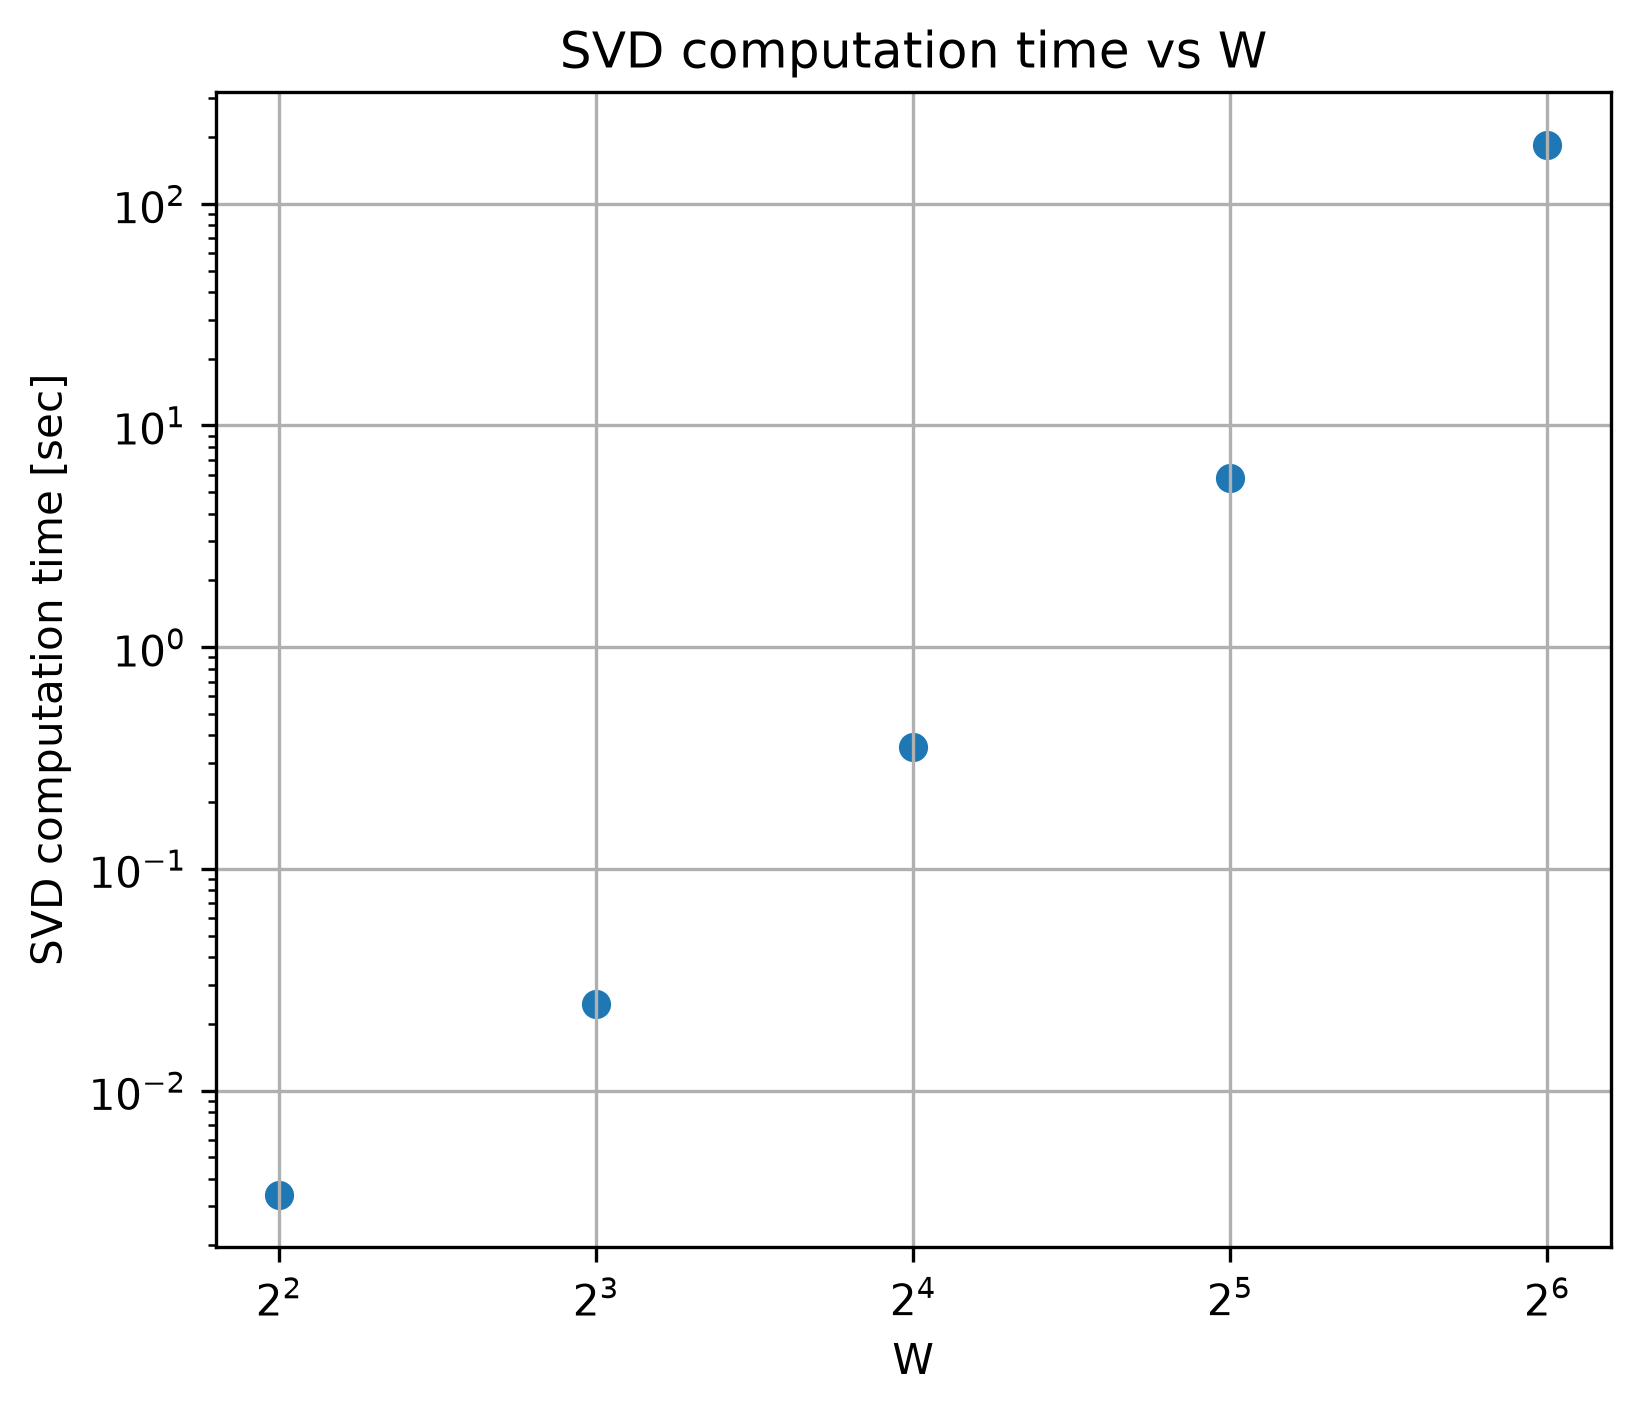
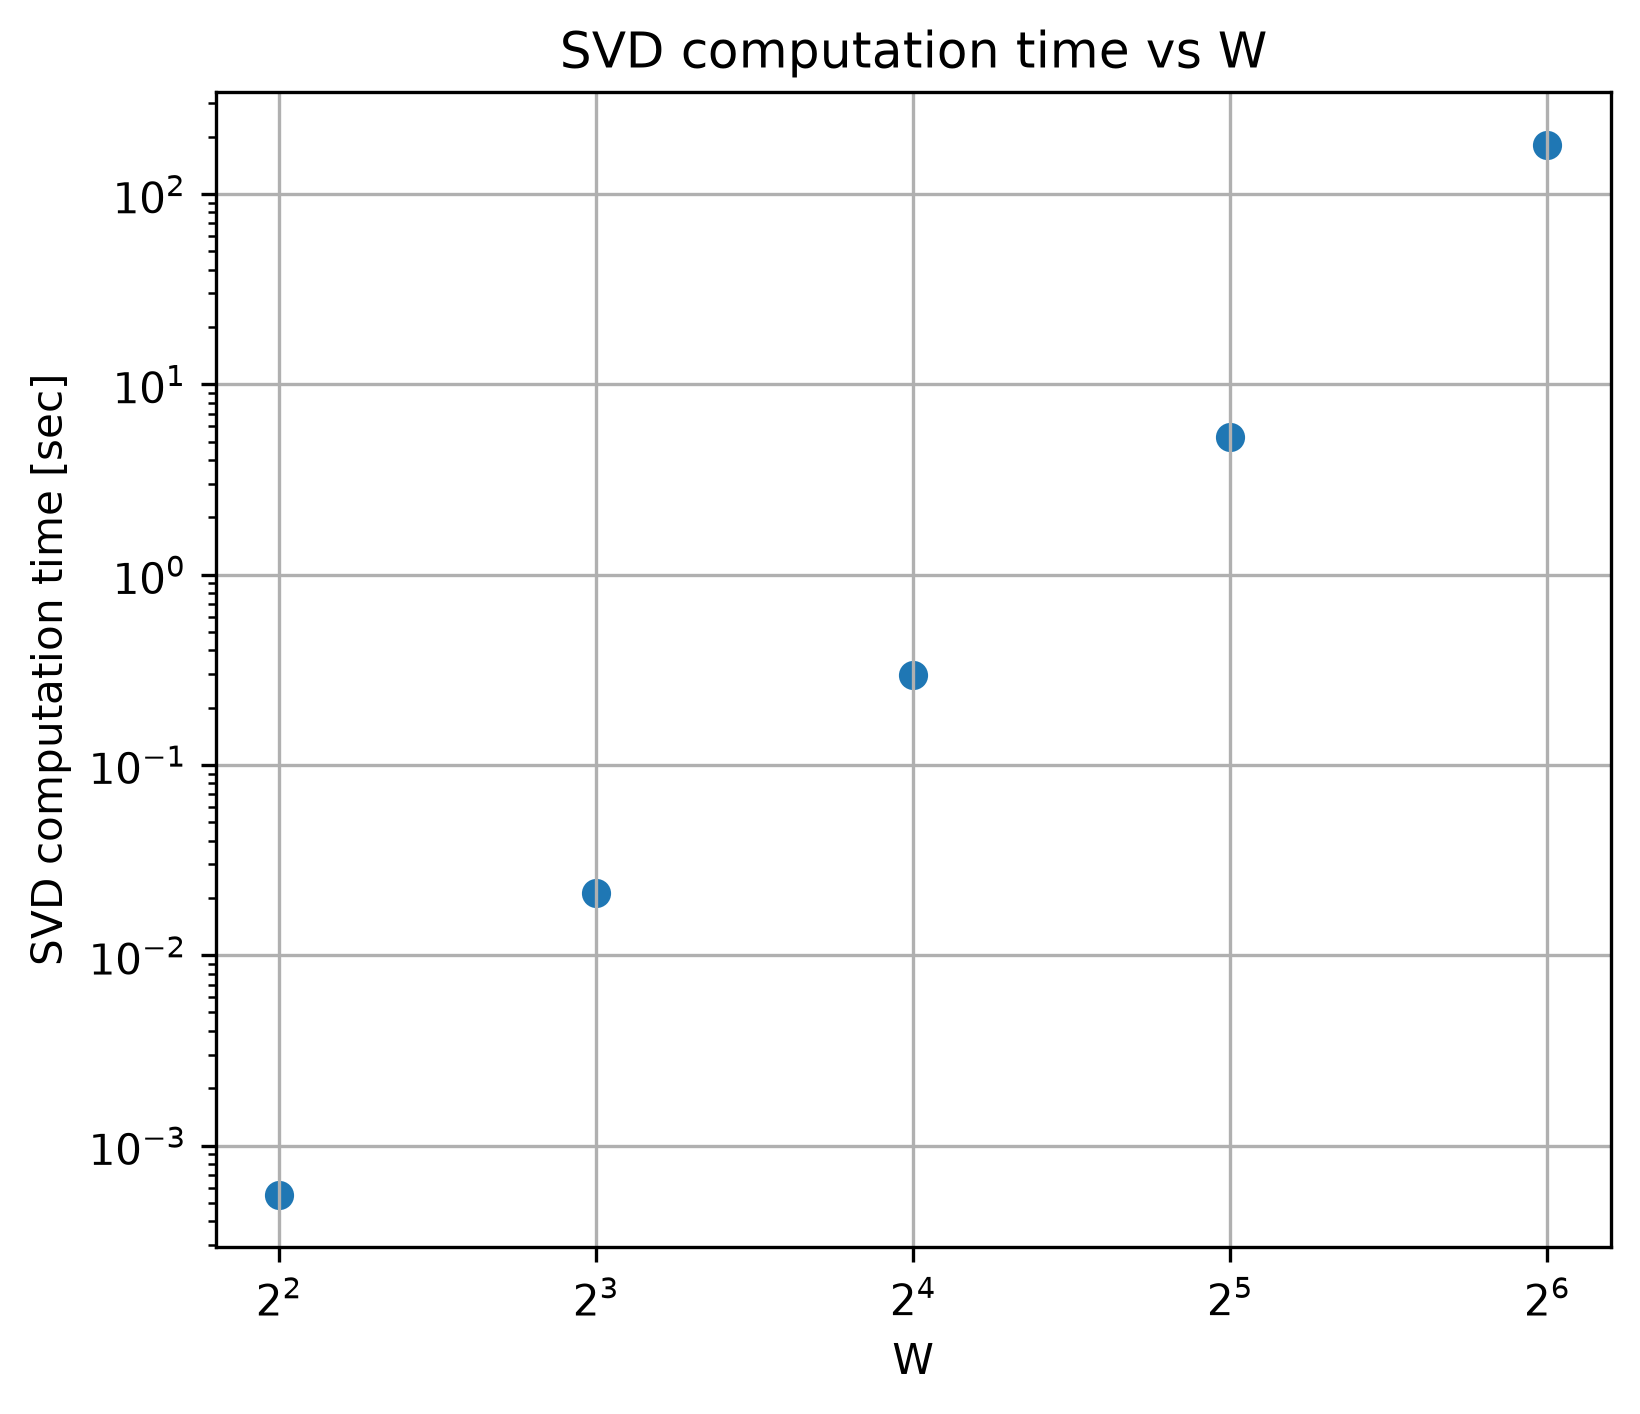
Part II - finisihed section h code and finished part II

diff --git a/src/final_project.py b/src/final_project.py
@@ -5,7 +5,9 @@ import time
 
 # Part I - Preliminaries
 
-run_part_i = False
+run_section_a = False
+run_section_b = False
+run_section_c = False
 
 # Section (a)
 def build_grid_points(lam: float, alpha: float) -> np.ndarray:
@@ -163,7 +165,7 @@ def plot_singular_values(s: np.ndarray, semilog: bool = True, title: str = "Sing
     else:
         plt.close(fig)
 
-if run_part_i:
+if run_section_a:
     lam = 1.0
     alpha = 4
     W = alpha * lam
@@ -353,7 +355,7 @@ def plot_svd_time_vs_W(results, savefig: bool = False, filename: str = "svd_time
     else:
         plt.close()
 
-if run_part_i:
+if run_section_b:
     lam = 1.0
     tau_values = [1e-2, 1e-5, 1e-8]
     alpha_values = [4, 8, 16, 32, 64] # doubling W by doubling alpha
@@ -395,7 +397,7 @@ def kernel_c(r_m: np.ndarray, r_n: np.ndarray, lam: float) -> complex:
     k = 2 * np.pi / lam
     return np.exp(-1j * k * dist) / np.sqrt(dist)
 
-if run_part_i:
+if run_section_c:
     lam = 1.0
     tau_values = [1e-2, 1e-5, 1e-8]
     alpha_values = [4, 8, 16, 32, 64] # doubling W by doubling alpha
@@ -429,7 +431,8 @@ if run_part_i:
 
 # Part II - Fast Rank Estimation
 
-run_part_ii = True
+run_section_f = False
+run_section_h = False
 
 # Section (f)
 def fast_rank_estimation(A_os: np.ndarray, tau: float, tau_R: float) -> int:
@@ -646,7 +649,7 @@ def save_scaling_results(scaling_results, filename: str = "rank_scaling_results.
 
     print(f"Saved scaling results to {out_path}")
 
-if run_part_ii:
+if run_section_f:
     np.random.seed(0)
 
     # Comparing between I(c) to II(f)
@@ -739,3 +742,163 @@ if run_part_ii:
     scaling_results=scaling_results,
     filename="Part II/Section f/rank_scaling_results.txt"
     )
+
+# Section (h)
+def run_time_case(lam: float, alpha: float, kernel, tau_values, tau_R: float, num_runs: int = 3):
+    """Measure total fast rank-estimation time for all tau values for one W."""
+    W = alpha * lam
+    w = W / 8
+
+    bottom_left, top_right, top_left, bottom_right = corner_centers(W=W, w=w)
+    r_cs = bottom_left
+    r_co = top_right
+
+    points = build_grid_points(lam=lam, alpha=alpha)
+    source_points = select_square_points(points=points, center=r_cs, w=w)
+    observer_points = select_square_points(points=points, center=r_co, w=w)
+
+    times = []
+    ranks_list = []
+
+    for run in range(num_runs):
+        np.random.seed(run)
+
+        start = time.perf_counter()
+        ranks = {
+            tau: fast_rank_estimation_from_points(
+                source_points=source_points,
+                observer_points=observer_points,
+                kernel=kernel,
+                tau=tau,
+                tau_R=tau_R
+            )
+            for tau in tau_values
+        }
+        fast_time = time.perf_counter() - start
+
+        times.append(fast_time)
+        ranks_list.append(ranks)
+
+    return {
+        "alpha": alpha,
+        "W": W,
+        "A_shape": (observer_points.shape[0], source_points.shape[0]),
+        "median_time": float(np.median(times)),
+        "times": times,
+        "ranks_list": ranks_list
+    }
+
+def plot_fast_time_vs_W(results, savefig: bool = False, filename: str = "fast_time_vs_W.png", show: bool = True) -> None:
+    """Plot median fast rank-estimation time versus W."""
+    fig, ax = plt.subplots(figsize=(6, 5))
+
+    W_values = np.array([result["W"] for result in results])
+    times = np.array([result["median_time"] for result in results])
+
+    ax.scatter(W_values, times)
+
+    ax.set_xlabel("W")
+    ax.set_ylabel("Median fast rank-estimation time [sec]")
+    ax.set_title("Fast Rank-Estimation Time vs W")
+    ax.set_xscale("log", base=2)
+    ax.set_yscale("log")
+    ax.grid(True)
+
+    if savefig:
+        out_path = Path("images") / filename
+        out_path.parent.mkdir(parents=True, exist_ok=True)
+        fig.savefig(out_path, dpi=300, bbox_inches="tight")
+        print(f"Saved figure to {out_path}")
+
+    if show:
+        plt.show()
+    else:
+        plt.close(fig)
+
+def estimate_time_scaling(results, W_min=None):
+    """Estimate T(W) ~ C W^p."""
+    W_values = np.array([result["W"] for result in results])
+    times = np.array([result["median_time"] for result in results])
+
+    mask = times > 0
+    if W_min is not None:
+        mask = mask & (W_values >= W_min)
+
+    p, log_C = np.polyfit(np.log(W_values[mask]), np.log(times[mask]), 1)
+    C = np.exp(log_C)
+
+    print(f"T(W) ~ {C:.4g} * W^{p:.4f}")
+
+    return {
+        "C": C,
+        "p": p
+    }
+
+def save_time_scaling_results(result, filename: str = "time_scaling_results.txt") -> None:
+    """Save time scaling result to a text file."""
+    out_path = Path("results") / filename
+    out_path.parent.mkdir(parents=True, exist_ok=True)
+
+    with open(out_path, "w") as f:
+        f.write("Asymptotic time scaling results\n")
+        f.write("Model: T(W) ~ C * W^p\n")
+        f.write("Timing value: median over repeated runs\n")
+        f.write("Each timing measures total time for all tau values\n\n")
+        f.write(
+            f"C={result['C']:.6g}, "
+            f"p={result['p']:.6f}, "
+            f"T(W) ~ {result['C']:.6g} * W^{result['p']:.6f}\n"
+        )
+
+    print(f"Saved time scaling results to {out_path}")
+
+if run_section_h:
+    np.random.seed(0)
+
+    lam = 1.0
+    tau_values = [1e-2, 1e-5, 1e-8]
+    tau_R = 0.05
+    num_runs = 3
+
+    alpha_values = [4, 8, 16, 32, 64, 128, 256, 512, 1024]
+    kernel_c_lam = lambda r_m, r_n: kernel_c(r_m, r_n, lam)
+
+    time_results = []
+
+    for alpha in alpha_values:
+        result = run_time_case(
+            lam=lam,
+            alpha=alpha,
+            kernel=kernel_c_lam,
+            tau_values=tau_values,
+            tau_R=tau_R,
+            num_runs=num_runs
+        )
+
+        time_results.append(result)
+
+        print(
+            f"alpha={alpha}, W={result['W']}, "
+            f"Equivalent A_os shape={result['A_shape']}, "
+            f"median time={result['median_time']:.4f} sec, "
+            f"times={np.round(result['times'], 4)}"
+        )
+
+    plot_fast_time_vs_W(
+        results=time_results,
+        savefig=True,
+        filename="Part II/Section h/fast_time_vs_W.png",
+        show=False
+    )
+
+    time_scaling_result = estimate_time_scaling(
+        results=time_results,
+        W_min=64
+    )
+
+    save_time_scaling_results(
+        result=time_scaling_result,
+        filename="Part II/Section h/time_scaling_results.txt"
+    )
+
+# Part III - Fast LR Estimation